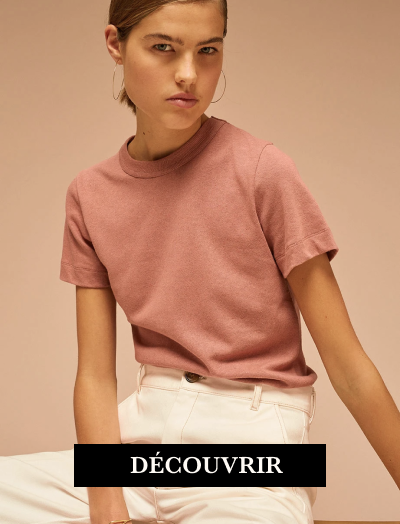
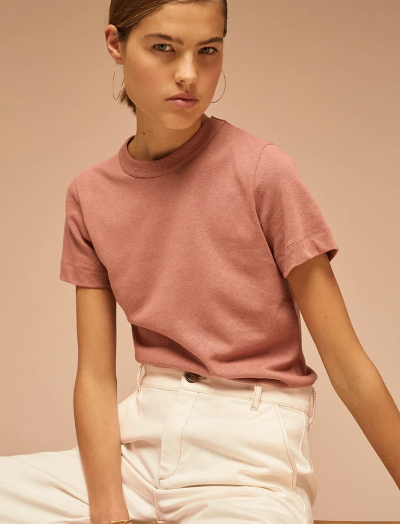
page produits

Changed region(s): [[0.18, 0.8244, 0.84, 0.9466]]

diff --git a/produits.css b/produits.css
@@ -10,7 +10,7 @@ html{
 }
 
 /* Bordure pour vérifer blocs */
-/* section{
+section{
     border: 3px solid yellow;
 }
 
@@ -20,7 +20,7 @@ footer{
 
 div, nav, header, article, form{
     border: 2px solid green;
-} */
+}
 
 img{
     /* garder ratio d'une image  */
@@ -60,18 +60,6 @@ body{
     margin-bottom: 70px;
 } */
 
-h1{
-    font-family: 'Libre Baskerville', serif;
-    font-style: Bold;
-    text-align: center;
-    font-size: clamp(35px, 13vw, 80px);
-    /* line-height: 229px, 100%; */
-    /* text-align: left;
-    vertical-align: top; */
-    color: #FFFBF5;
-    margin-top: 307px;
-}
-
 h2{
     font-family: 'Libre Baskerville', serif;
     font-style: Bold;
@@ -82,18 +70,7 @@ h2{
     vertical-align: top;
 }
 
-/* Homepage */
-#home{
-    /* responsive */
-    min-height: 950px; 
-}
-
-#home .titre{
-    background: url("images/homepage.png") no-repeat center / cover;
-    min-height: 750px;
-    align-self: stretch;
-}
-
+/* Header */
 .burger{
     display: none;
 }
@@ -117,9 +94,9 @@ nav a{
     vertical-align: top; */
 }
 
-a {
+a{
     transition: color .5s;
-  }
+}
   
 a:hover {
     color: #d8998f;
@@ -218,13 +195,125 @@ input{
     color: black;
 }
 
+/* Produits */
+#produits{
+    justify-content: space-evenly;
+    min-height: 1200px;
+    align-self: stretch;
+    margin-top: 50px;
+    margin-bottom: 70px;
+}
 
-/* Section */
+.titre{
+    justify-content: space-between;
+    margin-left: 40px;
+    margin-right: 40px;
+    font-size: clamp(18px, 10vw, 25px);
+}
 
+#produits .home{
+    justify-content: flex-end;
+    min-width: 120px;
+    min-height: 43px;
+    border: none;
+    background: black;
+    color: #FFFBF5;
+    font-weight: bold;
+    justify-content: center;
+    align-items: center;
+}
 
+.container1{
+    justify-content: space-evenly;
+    min-height: 640px;
+    min-width: 100%;
+    padding-top: 0;
+}
+
+.container2{
+    justify-content: space-evenly;
+    min-height: 640px;
+    min-width: 100%;
+    padding-top: 10px;
+}
+
+#produits .box{
+    min-width: 420px;
+    min-height: 525px;
+    justify-content: flex-end;
+    padding-bottom: 30px;
+}
+
+#produits button{
+    border: none;
+    min-width: 252px;
+    min-height: 43px;
+    background: #FFFBF5;
+    font-weight: bold;
+    transition: background-color .5s;
+}
+  
+#produits button:hover {
+    background-color: #d8998f;
+    color: #FFFBF5;
+}
+
+#produit span{
+    font-weight: bold;
+}
+
+.box1{
+    background: url(images/creamtshirt.png) no-repeat center / cover;
+}
+
+.box2{
+    background: url(images/pinktshirt.png) no-repeat center / cover;
+}
+
+.box3{
+    background: url(images/orangetshirt.png) no-repeat center / cover;
+}
+
+.box4{
+    background: url(images/lightorangetshirt.png) no-repeat center / cover;
+}
+
+.box5{
+    background: url(images/creamblouse.png) no-repeat center / cover;
+}
+
+.box6{
+    background: url(images/whitetshirt.png) no-repeat center / cover;
+}
+
+.detail{
+    justify-content: space-between;
+    font-size: clamp(12px, 10vw, 18px);
+    margin-right: 40px;
+    margin-left: 40px;
+}
+.nom{
+    justify-content: flex-start;
+    /* margin-right: 369px; */
+}
+
+.prix{
+    justify-content: flex-end;
+}
+
+span{
+    font-weight: bold;
+}
+
+.article{
+    min-width: 420px;
+}
+
+ 
 /* Footer */
 footer{
     justify-content: space-between;
+    align-self: stretch;
 }
 
 .newsletter{
@@ -252,7 +341,7 @@ footer{
         display: none;
     }
 
-    #home #decouvrir{
+    #home #produits{
         flex-direction: column;
         /* align-items: flex-end; */
         justify-content: center;
@@ -264,7 +353,7 @@ footer{
     }
 
     .container2 {
-        flex-direction: column;
+        flex-direction: column-reverse;
         justify-content: center;
     }
 
@@ -275,12 +364,14 @@ footer{
         align-items: center;
         margin-bottom: 20px;
     }
-    /* .carre p {
-        display: none;
-    } */
-    #home #decouvrir img {
+  
+    #home #produits img {
         display: block;
 
+    }
+
+    .detail{
+        display: none;
     }
 }
 @media (max-width: 670px) {

diff --git a/produits.html b/produits.html
@@ -54,7 +54,82 @@
 
     <!-- Section  -->
 
+    <section id="produits">
+        
+        <div class="titre flex">
+            <div class="flex">
+                <p>E-SHOP / CATÉGORIES / <span>T-SHIRTS</span> </p>
+            </div>
 
+            <div class="home flex column">
+                <p class="bouton">HOME</p>
+            </div>
+        </div>
+
+        <div class="container1 flex">
+            <div class="box box1 flex column">
+                <button class="bouton boutoncream">DÉCOUVRIR</button>
+            </div>
+
+            <div class="box box2 flex column">
+                <button class="bouton boutoncream">DÉCOUVRIR</button>
+            </div>
+
+            <div class="box box3 flex column">
+                <button class="bouton boutoncream">DÉCOUVRIR</button>
+            </div>
+        </div>
+
+        <div class="detail flex">
+            <div class="article flex">
+                <div class="nom article1">T-SHIRT THUSIKA</div>
+                <div class="prix"><span>29€</span></div>
+            </div>
+
+            <div class="article flex">
+                <div class="nom article2">T-SHIRT THUSIKA</div>
+                <div class="prix"><span>29€</span></div>
+            </div>
+
+            <div class="article flex">
+                <div class="nom article3">T-SHIRT THUSIKA</div>
+                <div class="prix"><span>29€</span></div>
+            </div>
+        </div>
+
+        <div class="container2 flex">
+
+            <div class="box box4 flex column">
+                <button class="bouton boutoncream">DÉCOUVRIR</button>
+            </div>
+
+            <div class="box box5 flex column">
+                <button class="bouton boutoncream">DÉCOUVRIR</button>
+            </div>
+
+            <div class="box box6 flex column">
+                <button class="bouton boutoncream">DÉCOUVRIR</button>
+            </div>
+        </div>
+
+        <div class="detail flex">
+            <div class="article flex">
+                <div class="nom article1">T-SHIRT THUSIKA</div>
+                <div class="prix"><span>29€</span></div>
+            </div>
+
+            <div class="article flex">
+                <div class="nom article2">T-SHIRT THUSIKA</div>
+                <div class="prix"><span>29€</span></div>
+            </div>
+
+            <div class="article flex">
+                <div class="nom article3">T-SHIRT THUSIKA</div>
+                <div class="prix"><span>29€</span></div>
+            </div>
+        </div>
+
+   </section>
 
     <!-- Footer -->
 

diff --git a/style.css b/style.css
@@ -10,7 +10,7 @@ html{
 }
 
 /* Bordure pour vérifer blocs */
-/* section{
+section{
     border: 3px solid yellow;
 }
 
@@ -20,7 +20,7 @@ footer{
 
 div, nav, header, article, form{
     border: 2px solid green;
-} */
+}
 
 img{
     /* garder ratio d'une image  */
@@ -117,9 +117,9 @@ nav a{
     vertical-align: top; */
 }
 
-a {
+a{
     transition: color .5s;
-  }
+}
   
 a:hover {
     color: #d8998f;
@@ -239,11 +239,6 @@ input{
     justify-content: flex-end;
     padding-bottom: 30px;
 }
-
-/* #decouvrir img{
-    object-fit: cover;
-    display: none;
-} */
 
 #decouvrir button{
     border: none;
